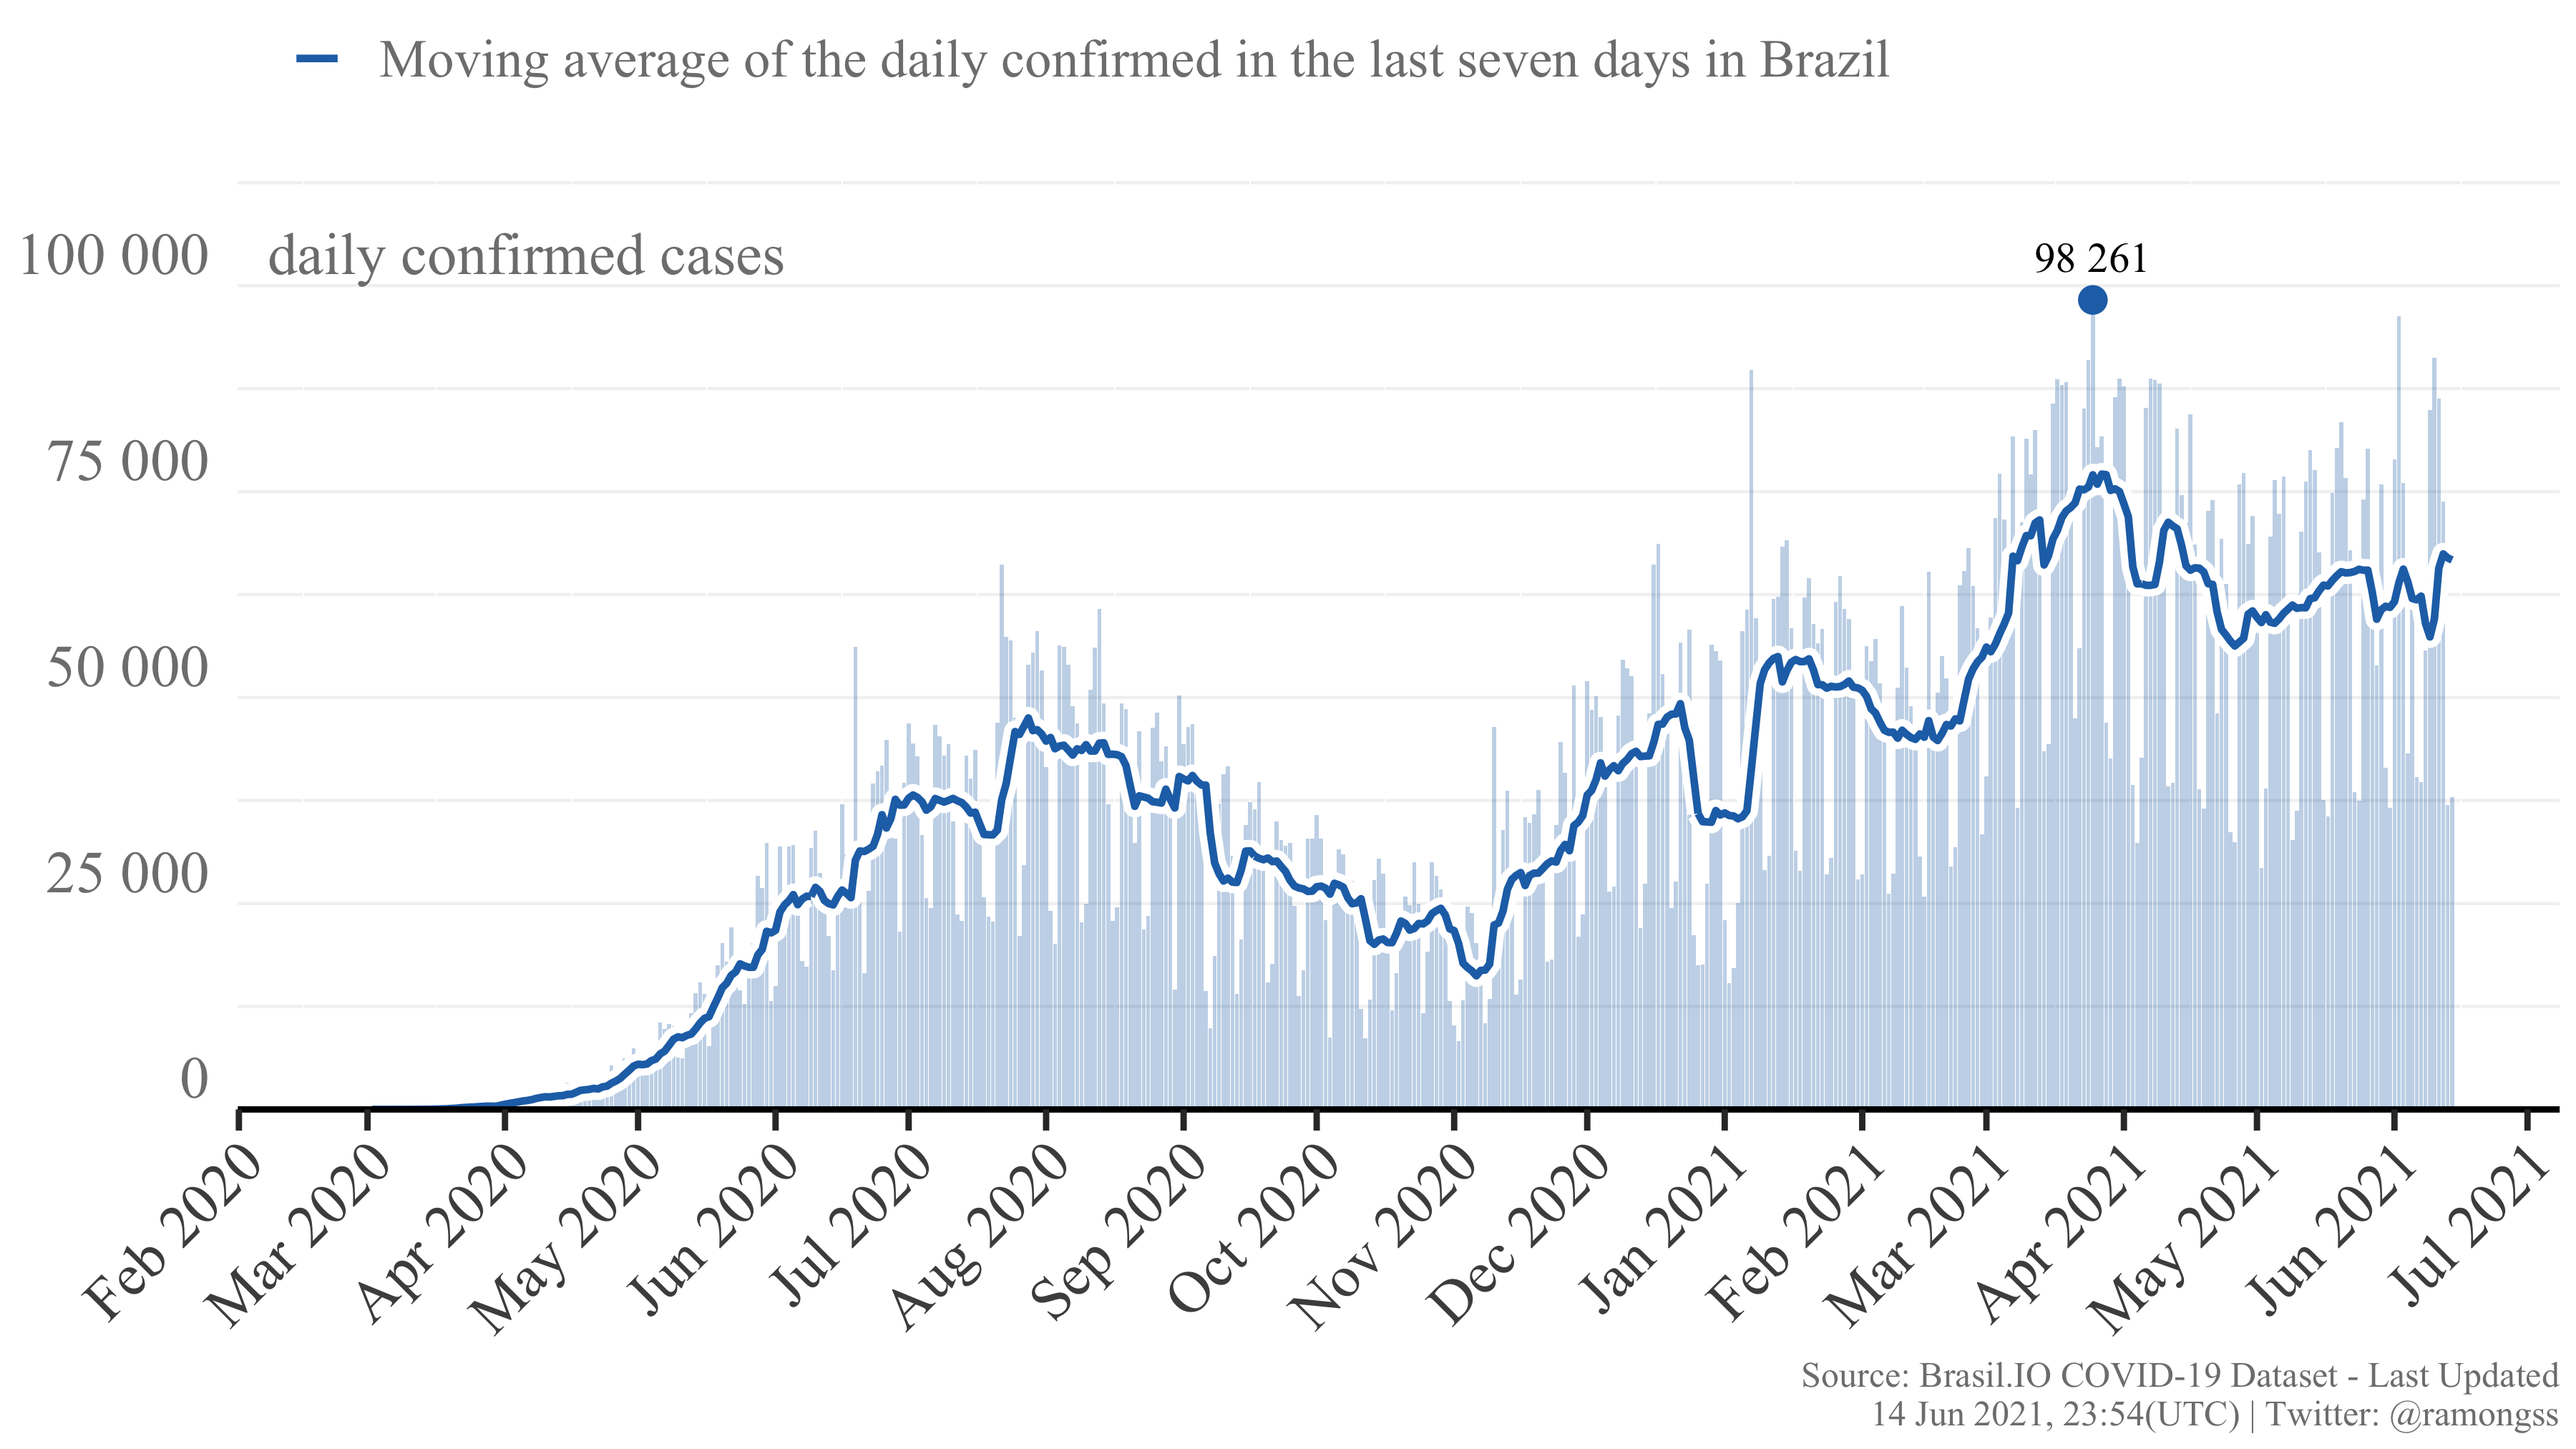
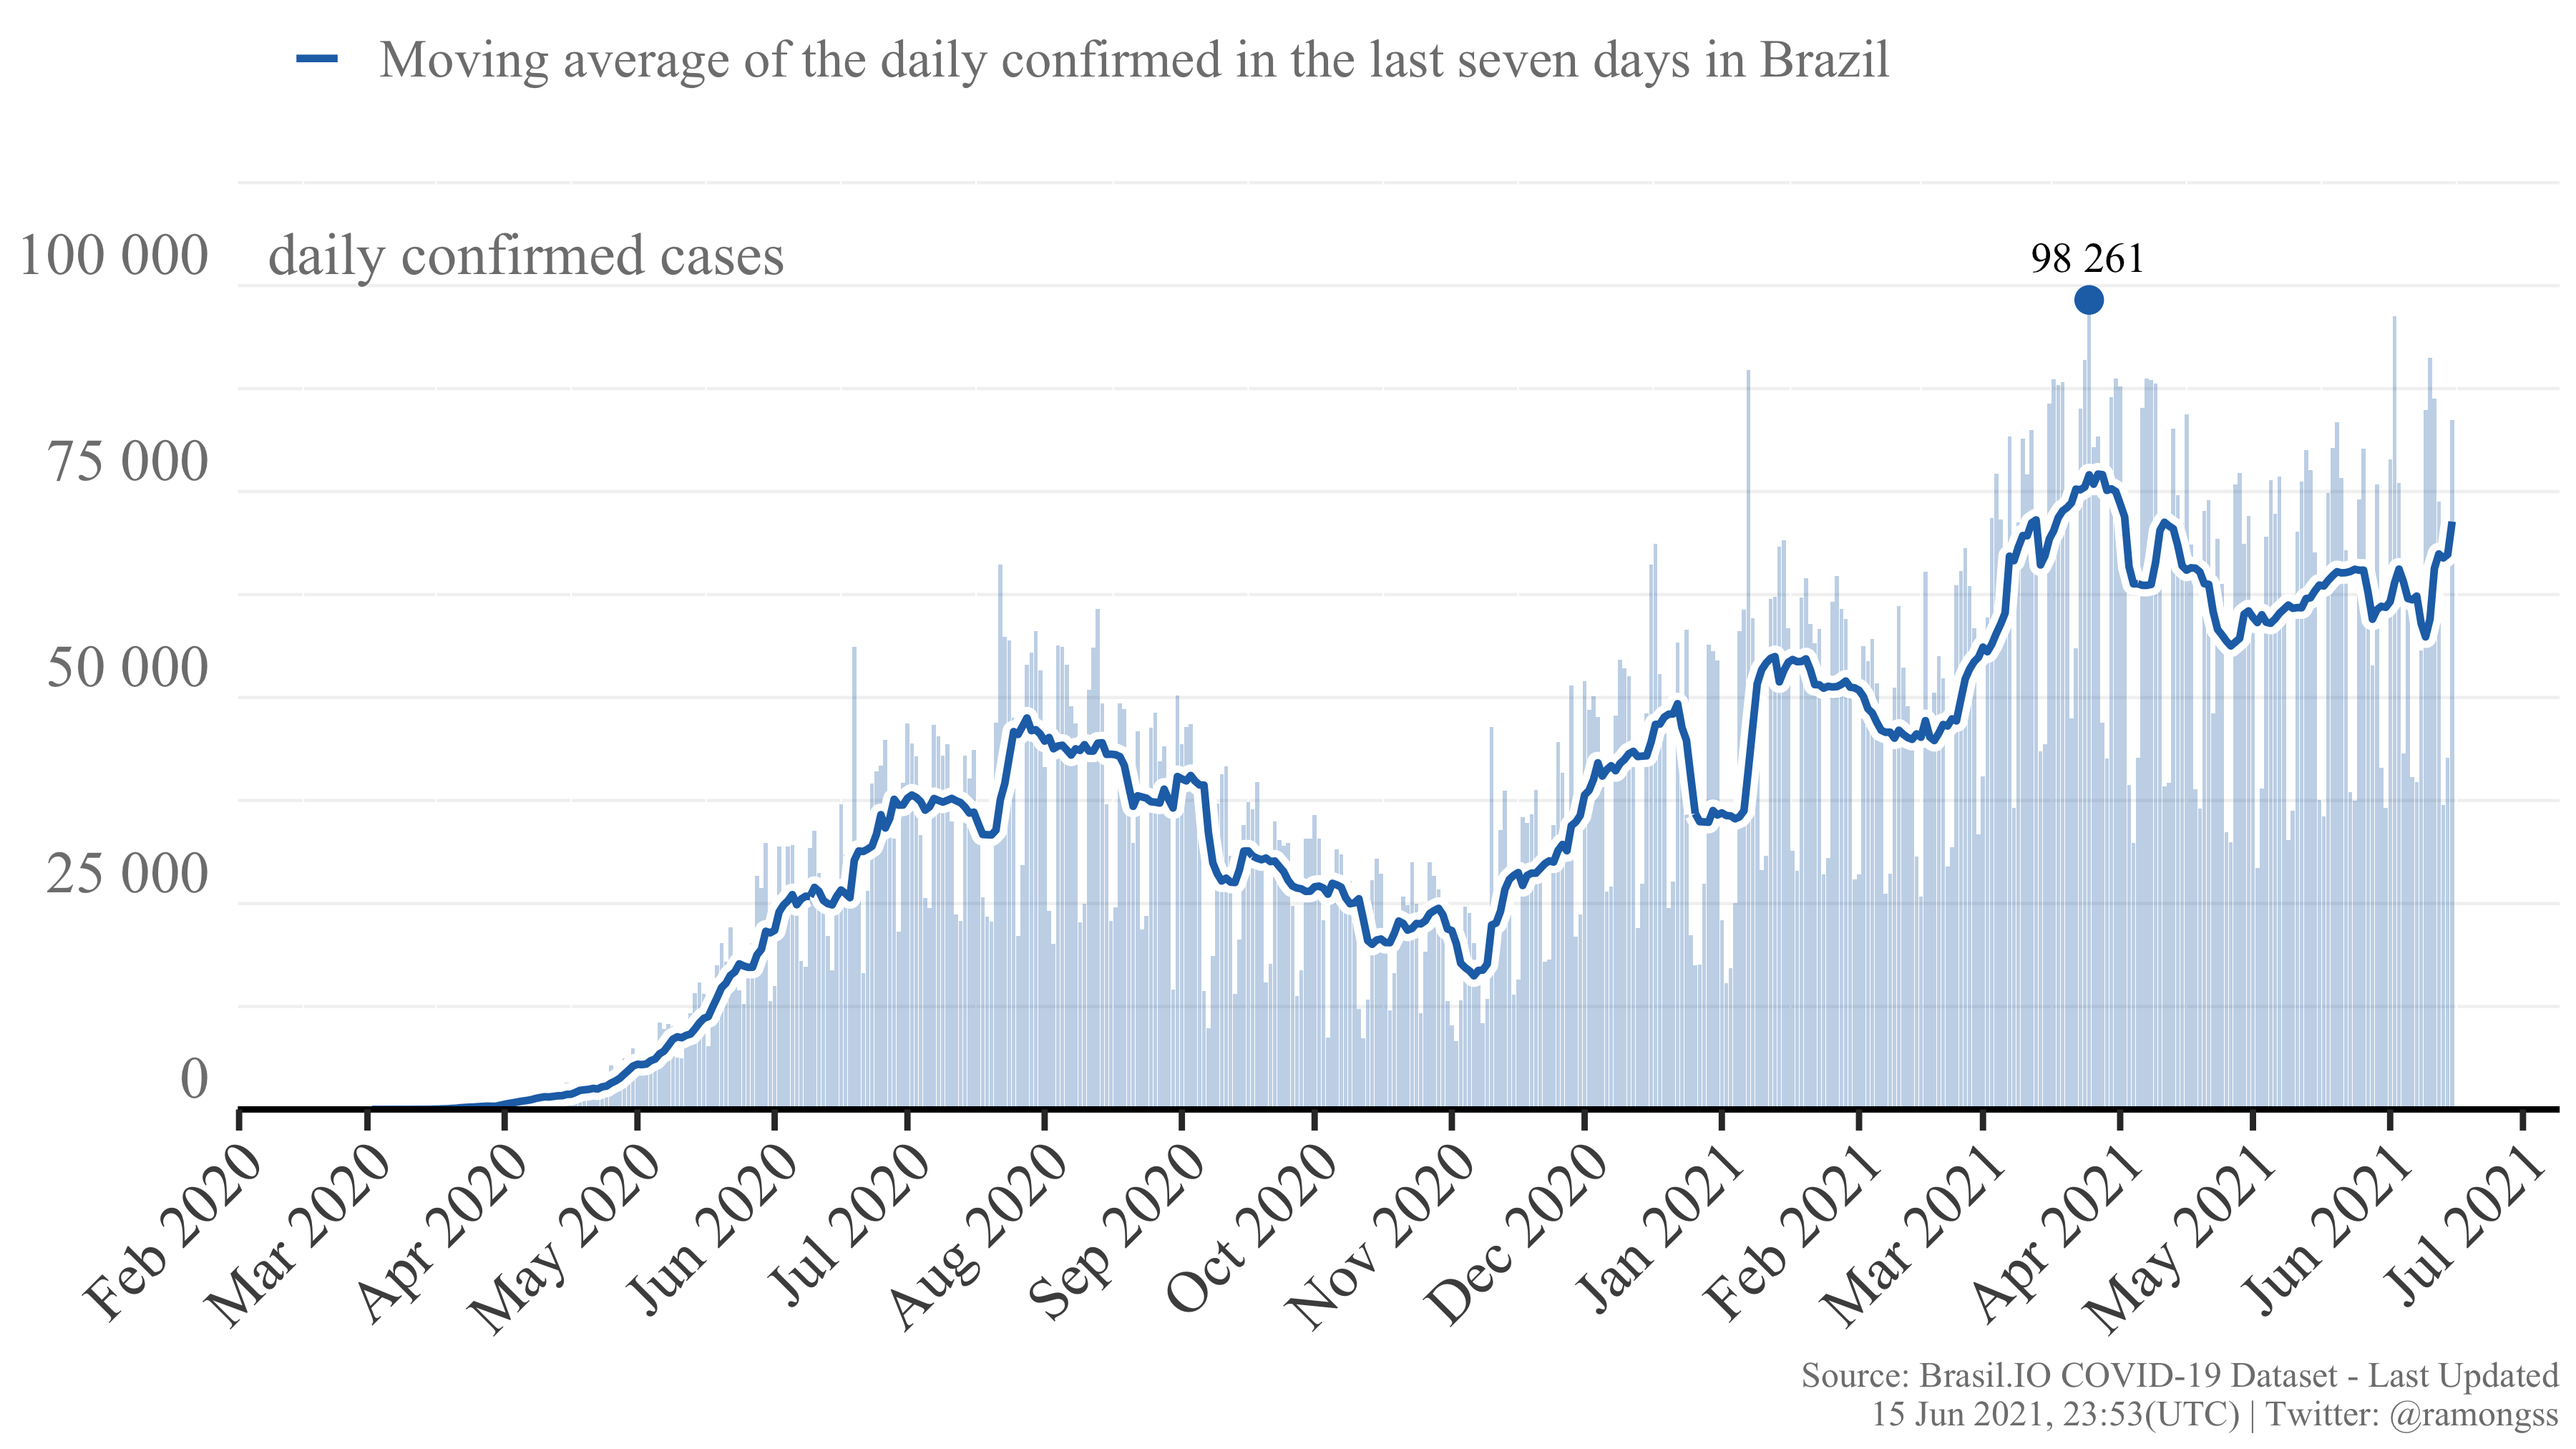
Re-build README.Rmd

diff --git a/README.md b/README.md
@@ -27,8 +27,8 @@ download_brasilio_table <- function(dataset = "covid19", table_name){
 
 ## COVID-19 Confirmed cases
 
-Currently, Brazil has a total of **17,460,882** confirmed cases at **14
-Jun, 2021**, with **37,946** new confirmed cases. The daily maximum
+Currently, Brazil has a total of **17,549,281** confirmed cases at **15
+Jun, 2021**, with **83,653** new confirmed cases. The daily maximum
 incidence was **98,261** confirmed cases at **25 Mar, 2021**. Here
 follows the Figure showing the confirmed case incidence as the bars, and
 the line as the moving average of the last 7 days.
@@ -37,8 +37,8 @@ the line as the moving average of the last 7 days.
 
 ## COVID-19 Deaths
 
-Currently, Brazil has a total of **488,625** deaths at **14 Jun, 2021**,
-with **919** new deaths. The daily maximum deaths incidence was
+Currently, Brazil has a total of **491,313** deaths at **15 Jun, 2021**,
+with **2,587** new deaths. The daily maximum deaths incidence was
 **4,148** deaths at **08 Apr, 2021**. Here follows the Figure showing
 the deaths incidence as the bars, and the line as the moving average of
 the last 7 days.
@@ -49,4 +49,4 @@ the last 7 days.
 
 This page is daily updated automatically using Github Actions.
 
-*Last update: 14 Jun 2021, 23:54 (UTC).*
+*Last update: 15 Jun 2021, 23:53 (UTC).*
